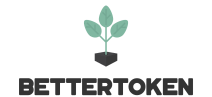
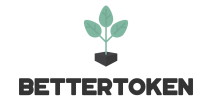
bettertoken update

diff --git a/index.html b/index.html
@@ -49,26 +49,18 @@
         <div class="navbar-brand">
             <span class="navbar-logo">
                 <a href="index.html">
-                    <img src="assets/images/wartboard-14-copy-212x121.png" alt="Mobirise" title="" style="height: 5.4rem;">
+                    <img src="assets/images/wartboard-14-copy-212x121.png" alt="Mobirise" title="" style="height: 4.1rem;">
                 </a>
             </span>
             
         </div>
-        <button class="navbar-toggler" type="button" data-toggle="collapse" data-target="#navbarSupportedContent" aria-controls="navbarNavAltMarkup" aria-expanded="false" aria-label="Toggle navigation">
-            <div class="hamburger">
-                <span></span>
-                <span></span>
-                <span></span>
-                <span></span>
-            </div>
-        </button>
+        
       <div class="collapse navbar-collapse" id="navbarSupportedContent">
             <ul class="navbar-nav nav-dropdown nav-right" data-app-modern-menu="true"><li class="nav-item">
                     <a class="nav-link link text-black display-4" href="index.html">
                         Home
                     </a>
-                </li>
-                <li class="nav-item"><a class="nav-link link text-black display-4" href="contact-page.html">Contact</a></li></ul>
+                </li></ul>
             
             
       </div>
@@ -261,7 +253,7 @@
                 </h2>
                 <div class="form-wrap" data-form-type="formoid">
                     <!---Formbuilder Form--->
-                    <form action="https://mobirise.com/" method="POST" class="mbr-form form-with-styler" data-form-title="My Mobirise Form"><input type="hidden" name="email" data-form-email="true" value="hqhf118lG7yUhbfjam5GnokNaLBME5K9PFCEtnNs7qFVV69EixILsla1hGVTWVygdO7COnWXtILIwfeHVOKZ4AjOf1Es3+Od2W45LxCJQY4UDAwxzpfNVy6Cy58Npfvr.kadMNzNGiELYrESF1VC9W+Pk19/fs0gaeoeXS4Qo3xvIPgwk+TdpTFm16MR2j/qWcPv0Q6nilZBFwAMuy+FeigtbBoJ7oAujFYH1SjYOSQyd6l05FE13wPsr/DuG+LTb">
+                    <form action="https://mobirise.com/" method="POST" class="mbr-form form-with-styler" data-form-title="My Mobirise Form"><input type="hidden" name="email" data-form-email="true" value="PYVbCRdVFeo6DWGJEDRMf/RlCmx+KHXDT1UgCrwdBoDwzoGYaKRy1CNjlB6FxEfdKajhqaOVdM6IweZG+zkNG9b2JUXQ51XEtGQzxfzSdlYhQX5gKpCehzTJawNQlBcv.TeXmVWI8YhfVzS45l8pkHI+DQre9LkkFNQTe2NnUtoeG+9RCSZY6RxfLMv353Or5zPC1Vu/MkIgDm47MFxJQIMaYFzD5WvcNdL0b5/0HkT3Zv50l9c2V8ARAnmpIzqhG">
                         <div class="row">
                             <div hidden="hidden" data-form-alert="" class="alert alert-success col-12">Thank you for your interest in Bettertoken! We will get back to you shortly.</div>
                             <div hidden="hidden" data-form-alert-danger="" class="alert alert-danger col-12"></div>
@@ -288,7 +280,7 @@
                 </div>
             </div>
             <div class="col-md-12 col-lg-6">
-                <div class="google-map"><iframe frameborder="0" style="border:0" src="https://www.google.com/maps/embed/v1/place?key=AIzaSyCy9r70T3NYf3PhvVflTo0_zdif2_IoIYs&amp;q=place_id:ChIJgSxSmMB3w0cRaqfeE1mlvQQ" allowfullscreen=""></iframe></div>
+                <div class="google-map"><iframe frameborder="0" style="border:0" src="https://www.google.com/maps/embed/v1/place?key=AIzaSyAEIpgj38KyLFELm2bK9Y7krBkz1K-cMq8&amp;q=place_id:ChIJgSxSmMB3w0cRaqfeE1mlvQQ" allowfullscreen=""></iframe></div>
             </div>
         </div>
     </div>

diff --git a/contact-page.html b/contact-page.html
@@ -53,21 +53,13 @@
             </span>
             
         </div>
-        <button class="navbar-toggler" type="button" data-toggle="collapse" data-target="#navbarSupportedContent" aria-controls="navbarNavAltMarkup" aria-expanded="false" aria-label="Toggle navigation">
-            <div class="hamburger">
-                <span></span>
-                <span></span>
-                <span></span>
-                <span></span>
-            </div>
-        </button>
+        
       <div class="collapse navbar-collapse" id="navbarSupportedContent">
             <ul class="navbar-nav nav-dropdown nav-right" data-app-modern-menu="true"><li class="nav-item">
                     <a class="nav-link link text-black display-4" href="index.html">
                         Home
                     </a>
-                </li>
-                <li class="nav-item"><a class="nav-link link text-black display-4" href="contact-page.html">Contact</a></li></ul>
+                </li></ul>
             
             
       </div>
@@ -88,7 +80,7 @@
                 </h2>
                 <div class="form-wrap" data-form-type="formoid">
                     <!---Formbuilder Form--->
-                    <form action="https://mobirise.com/" method="POST" class="mbr-form form-with-styler" data-form-title="My Mobirise Form"><input type="hidden" name="email" data-form-email="true" value="V+wuFyNq4qbIggBUbRUWUsQ6KYm1p86imGhKDYwN3EBl70OseuNY3CPQWTY1yHkxa1hs2fYoFh5AmTG2lFhuLw8Zl1g8Y5KOj2Rlcz4wKFuVBBGt+Co5sEGZfwnBO5EE.pC3WVkWA0zsaWc9VxuqkXmObr3oAo8KwKC2zUNERYANlrV+ALLCU3NPE3JzDCM7GwSnMz4tQ93IP2FNoEtwVMIcdn7dW7WmOn6YT/WKO8s1Web9rXSpv9tF4sLnFbGnB">
+                    <form action="https://mobirise.com/" method="POST" class="mbr-form form-with-styler" data-form-title="My Mobirise Form"><input type="hidden" name="email" data-form-email="true" value="FqcfbKnXtIzjQjm6eCxtNkQCnQcJPLdA/9etrJsTD/zMvLpXPjfxmZL1/UxmjhKmk7XPcHMpWkKpCBbT9IZQqIHzM3ZUgdMqCJwAEYys7Q3bZi6hyH0c1+fxTUMmCA+H.zAoIq13P9rNf8qSdeIl6p5DAMcWq0+XfYavAC8vDMIL7NGS3xhcebjAV5XGykRyEoMCQCIIxsS5tkPauS/ijx3k/MMLUXkvOo7dvwZpPjC+fSZ3XXlXEFWQAnvqcn92S">
                         <div class="row">
                             <div hidden="hidden" data-form-alert="" class="alert alert-success col-12">Thank you for your interest in Bettertoken! We will get back to you shortly.</div>
                             <div hidden="hidden" data-form-alert-danger="" class="alert alert-danger col-12"></div>

diff --git a/order-form.html b/order-form.html
@@ -56,21 +56,13 @@
             </span>
             
         </div>
-        <button class="navbar-toggler" type="button" data-toggle="collapse" data-target="#navbarSupportedContent" aria-controls="navbarNavAltMarkup" aria-expanded="false" aria-label="Toggle navigation">
-            <div class="hamburger">
-                <span></span>
-                <span></span>
-                <span></span>
-                <span></span>
-            </div>
-        </button>
+        
       <div class="collapse navbar-collapse" id="navbarSupportedContent">
             <ul class="navbar-nav nav-dropdown nav-right" data-app-modern-menu="true"><li class="nav-item">
                     <a class="nav-link link text-black display-4" href="index.html">
                         Home
                     </a>
-                </li>
-                <li class="nav-item"><a class="nav-link link text-black display-4" href="contact-page.html">Contact</a></li></ul>
+                </li></ul>
             
             
       </div>
@@ -84,7 +76,7 @@
         <div class="row">
             <div class="col-lg-8 mx-auto mbr-form" data-form-type="formoid">
 <!--Formbuilder Form-->
-<form action="https://mobirise.com/" method="POST" class="mbr-form form-with-styler" data-form-title="Form Name"><input type="hidden" name="email" data-form-email="true" value="J6g38NoSj7XOHvpdBz2BlUp5CBkj+YFWuQfxu+AVFr3yxVN4aIJoApDhQqiL6UotxJN3xoIp327BWA6llx68P8ewMVYI/JByqrnBAWHEmndZsyA65BHDbKxlgMwX9FFb.h0OCl2S/ZvMGMho0+kNfNCpmlknpVkLI9eqHaR1rNuQpaS+D5wyTIxDIr7Ign4SSjzIggwiRtqZUS8AEYK5Yk3Tjeq6TYIt3lu42dbzX0IJL5ePfaw57q8jxnh6f/KVH">
+<form action="https://mobirise.com/" method="POST" class="mbr-form form-with-styler" data-form-title="Form Name"><input type="hidden" name="email" data-form-email="true" value="L2isnFD1mVpsF67DKcstEE2I8f3riuGGAjMYUKygKdRK/v5NLfynqnRdz8RlCeIXKU9P3bzT8Os8gWKAlcinDza1l2NWieYj+ABf/jIF1hUYAxCo298mZrjXZAxn5397.f6uPXo/4jxQsDqMly/Ek/9XzUst69C8bcHBYl98og7QqFoWB+Rvzmu54jQJjDcFfp6VVb+OOzKUdmt7syZwYgYvPZteaZMEDtCNjSPy2DW4FfkilSiYNWMLEz4zswybX">
 <div class="form-row">
 <div hidden="hidden" data-form-alert="" class="alert alert-success col-12">Thank you for filling out our SoHo Node Order Form, we will get back to you shortly to finalize your order!</div>
 <div hidden="hidden" data-form-alert-danger="" class="alert alert-danger col-12">Oops...! some problem!</div>

diff --git a/assets/mobirise/css/mbr-additional.css b/assets/mobirise/css/mbr-additional.css
@@ -742,6 +742,7 @@ section.lazy-placeholder:after {
   justify-content: flex-end;
   z-index: 1;
   -webkit-justify-content: flex-end;
+  display: none !important;
 }
 .cid-rYNqqXbDm3 .navbar.collapsed .nav-item .nav-link::before {
   display: none;
@@ -751,7 +752,7 @@ section.lazy-placeholder:after {
 }
 @media (min-width: 992px) {
   .cid-rYNqqXbDm3 .navbar.collapsed.opened:not(.navbar-short) .navbar-collapse {
-    max-height: calc(99vh - 5.4rem);
+    max-height: calc(99vh - 4.1rem);
   }
 }
 .cid-rYNqqXbDm3 .navbar.collapsed .dropdown-menu {
@@ -1459,6 +1460,7 @@ section.lazy-placeholder:after {
   justify-content: flex-end;
   z-index: 1;
   -webkit-justify-content: flex-end;
+  display: none !important;
 }
 .cid-rYNqqXbDm3 .navbar.collapsed .nav-item .nav-link::before {
   display: none;
@@ -1468,7 +1470,7 @@ section.lazy-placeholder:after {
 }
 @media (min-width: 992px) {
   .cid-rYNqqXbDm3 .navbar.collapsed.opened:not(.navbar-short) .navbar-collapse {
-    max-height: calc(99vh - 5.4rem);
+    max-height: calc(99vh - 4.1rem);
   }
 }
 .cid-rYNqqXbDm3 .navbar.collapsed .dropdown-menu {
@@ -2002,6 +2004,7 @@ section.lazy-placeholder:after {
   justify-content: flex-end;
   z-index: 1;
   -webkit-justify-content: flex-end;
+  display: none !important;
 }
 .cid-rYNqqXbDm3 .navbar.collapsed .nav-item .nav-link::before {
   display: none;
@@ -2011,7 +2014,7 @@ section.lazy-placeholder:after {
 }
 @media (min-width: 992px) {
   .cid-rYNqqXbDm3 .navbar.collapsed.opened:not(.navbar-short) .navbar-collapse {
-    max-height: calc(99vh - 5.4rem);
+    max-height: calc(99vh - 4.1rem);
   }
 }
 .cid-rYNqqXbDm3 .navbar.collapsed .dropdown-menu {
@@ -2546,6 +2549,7 @@ section.lazy-placeholder:after {
   justify-content: flex-end;
   z-index: 1;
   -webkit-justify-content: flex-end;
+  display: none !important;
 }
 .cid-rYNqqXbDm3 .navbar.collapsed .nav-item .nav-link::before {
   display: none;
@@ -2555,7 +2559,7 @@ section.lazy-placeholder:after {
 }
 @media (min-width: 992px) {
   .cid-rYNqqXbDm3 .navbar.collapsed.opened:not(.navbar-short) .navbar-collapse {
-    max-height: calc(99vh - 5.4rem);
+    max-height: calc(99vh - 4.1rem);
   }
 }
 .cid-rYNqqXbDm3 .navbar.collapsed .dropdown-menu {

diff --git a/bettertoken-faq.html b/bettertoken-faq.html
@@ -52,21 +52,13 @@
             </span>
             
         </div>
-        <button class="navbar-toggler" type="button" data-toggle="collapse" data-target="#navbarSupportedContent" aria-controls="navbarNavAltMarkup" aria-expanded="false" aria-label="Toggle navigation">
-            <div class="hamburger">
-                <span></span>
-                <span></span>
-                <span></span>
-                <span></span>
-            </div>
-        </button>
+        
       <div class="collapse navbar-collapse" id="navbarSupportedContent">
             <ul class="navbar-nav nav-dropdown nav-right" data-app-modern-menu="true"><li class="nav-item">
                     <a class="nav-link link text-black display-4" href="index.html">
                         Home
                     </a>
-                </li>
-                <li class="nav-item"><a class="nav-link link text-black display-4" href="contact-page.html">Contact</a></li></ul>
+                </li></ul>
             
             
       </div>
